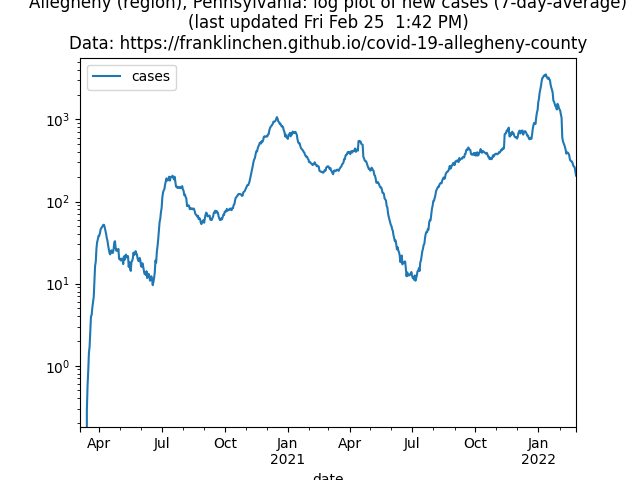
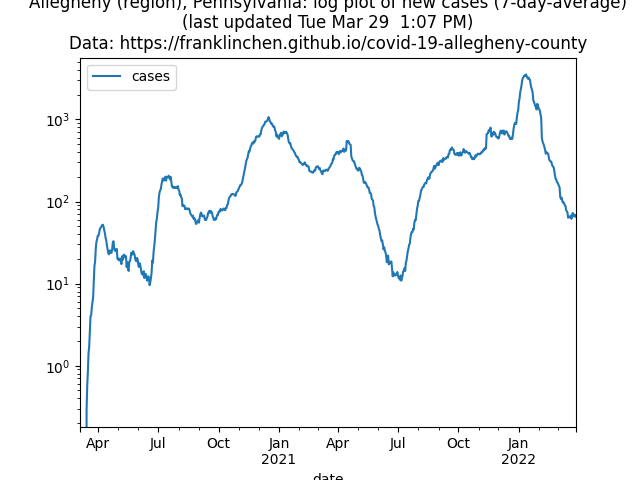
Community levels.

diff --git a/index.html b/index.html
@@ -12,8 +12,26 @@
         </header>
 
         <aside>
-            Last updated: Fri Feb 25,  1:42 PM
+            Last updated: Tue Mar 29,  1:07 PM
         </aside>
+
+        <section>
+            <h2>News</h2>
+            <p>The U.S. government has released the <a href="https://www.whitehouse.gov/covidplan/">National COVID-19 Preparedness Plan</a>.
+
+                <p>Starting Mon March 7, every home in the U.S. will be able to order an additional set of 4 tests at <a href="https://www.covidtests.gov/">covidtests.gov</a>.
+            </p>
+
+        </section>
+
+        <section>
+            <h2>COVID-19 community level data</h2>
+            <p>CDC has an official site where you can search for <a href="https://www.cdc.gov/coronavirus/2019-ncov/your-health/covid-by-county.html">COVID-19 community level information</a>
+            </p>
+
+            <div data-cdc-widget="COVIDCountyCheck" data-horizontal="true" ></div>
+            <script src="https://tools.cdc.gov/1M1B"></script>
+        </section>
 
         <section>
             <h2>Where to get free testing</h2>
@@ -52,7 +70,7 @@
             </p>
             <nav>
                 <ul>
-                    <li><a href="#recentdailyaveraged">Since June 1, 2021: Daily cases; daily hospitalizations and deaths</a>
+                    <li><a href="#recentdailyaveraged">Since March 1, 2022: Daily cases; daily hospitalizations and deaths</a>
                     </li>
                     <li><a href="#dailyaveraged">Since March 13, 2020: Daily cases; daily hospitalizations and deaths</a>
                     </li>
@@ -64,17 +82,13 @@
                 <figcaption>
                     <p>Daily hospitalizations are inaccurate until Tuesdays.
                     </p>
-                    <p>
-                        Note: there was a <a href="https://triblive.com/news/pennsylvania/pennsylvania-to-begin-counting-covid-re-infections/">reinfection</a> case data correction (1,302 previously uncounted reinfections) on November 13, 2021.
-                    </p>
                 </figcaption>
-                <img src="recentdailyaveraged.png" alt="Allegheny County: new daily (7-day-average) since June 1, 2021"/>
+                <img src="recentdailyaveraged.png" alt="Allegheny County: new daily (7-day-average) since March 1, 2022"/>
             </figure>
             <figure id="dailyaveraged">
                 <figcaption>
                     <p>Daily hospitalizations are inaccurate until Tuesdays.
                     </p>
-                    <p>
                         Note: there was a case data dump on April 14, 2021 and a correction on November 13, 2021 (1,302 previously uncounted reinfections).
                     </p>
                 </figcaption>
